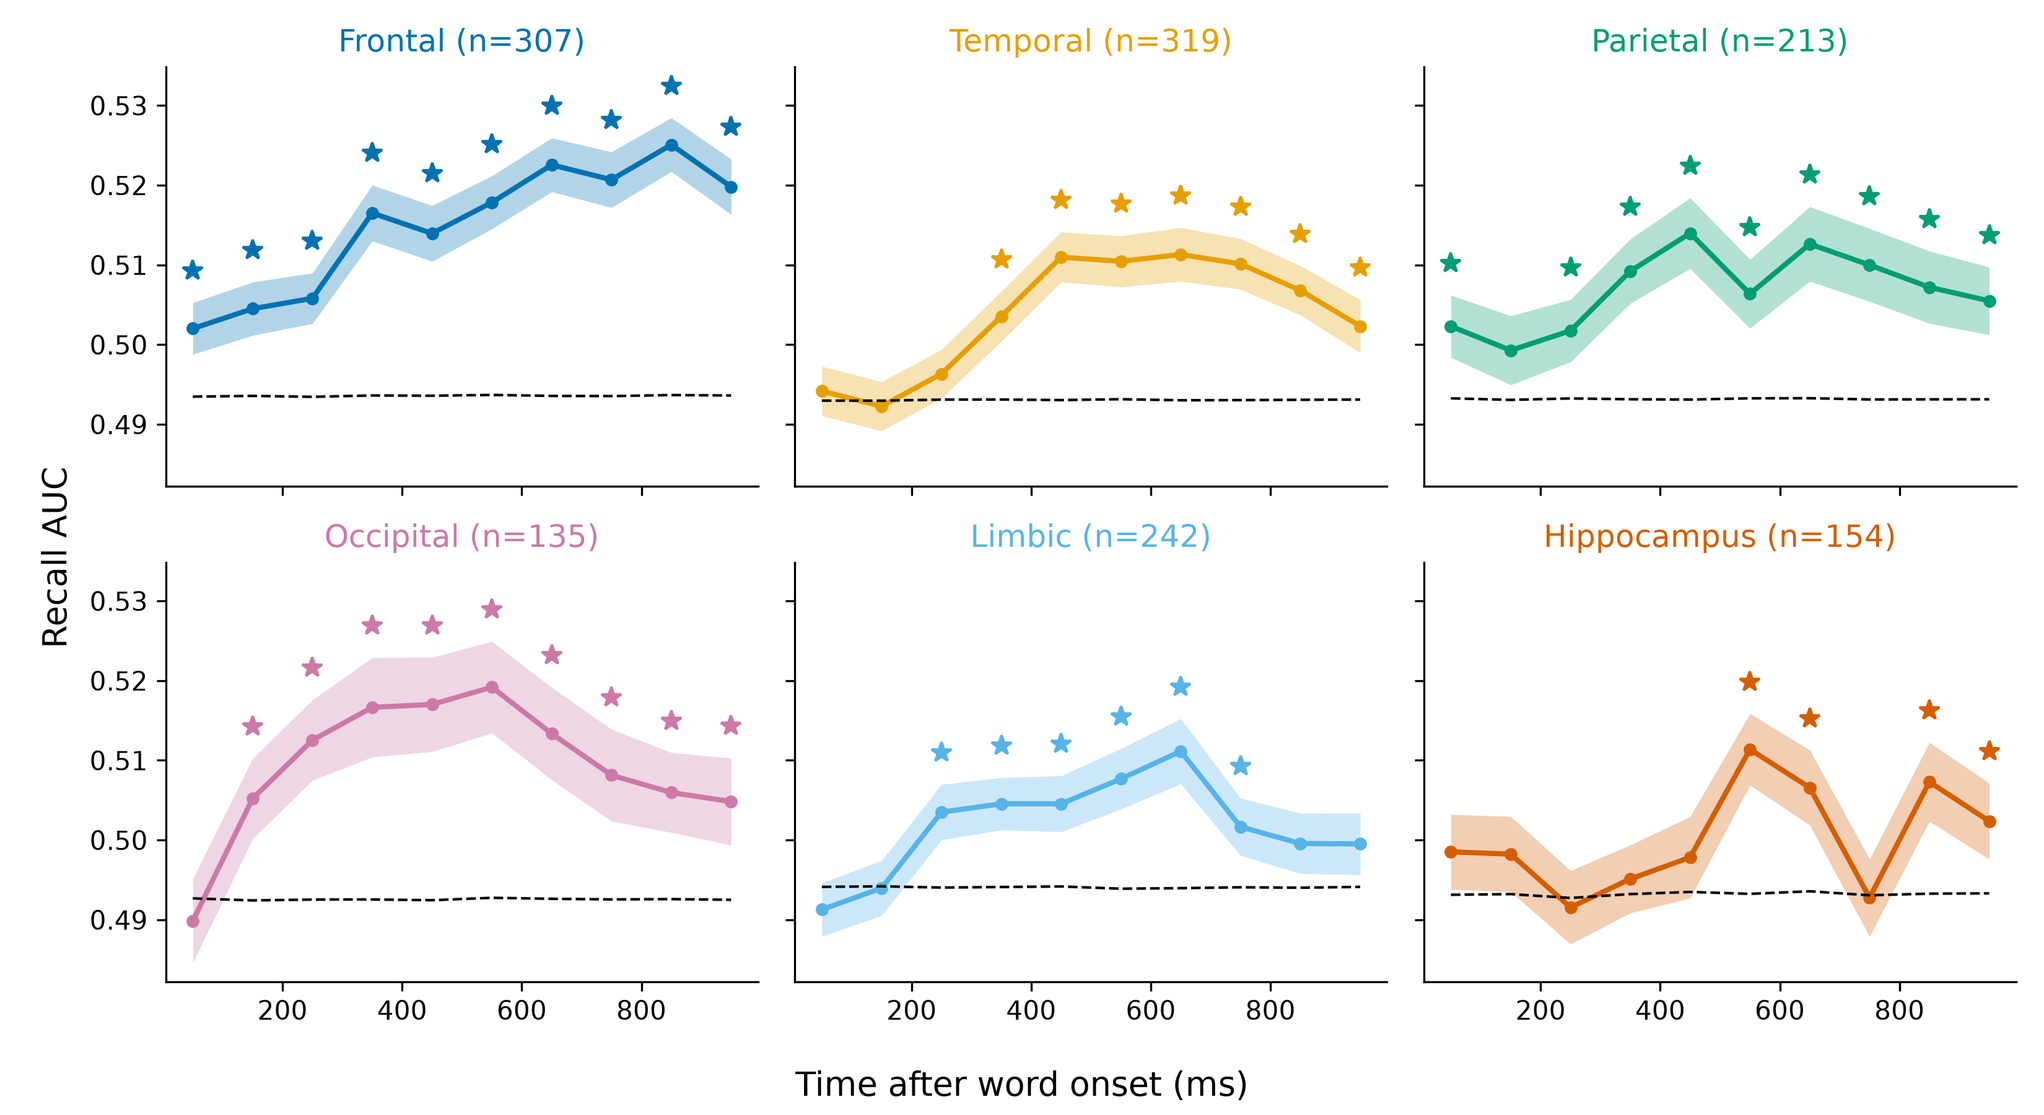
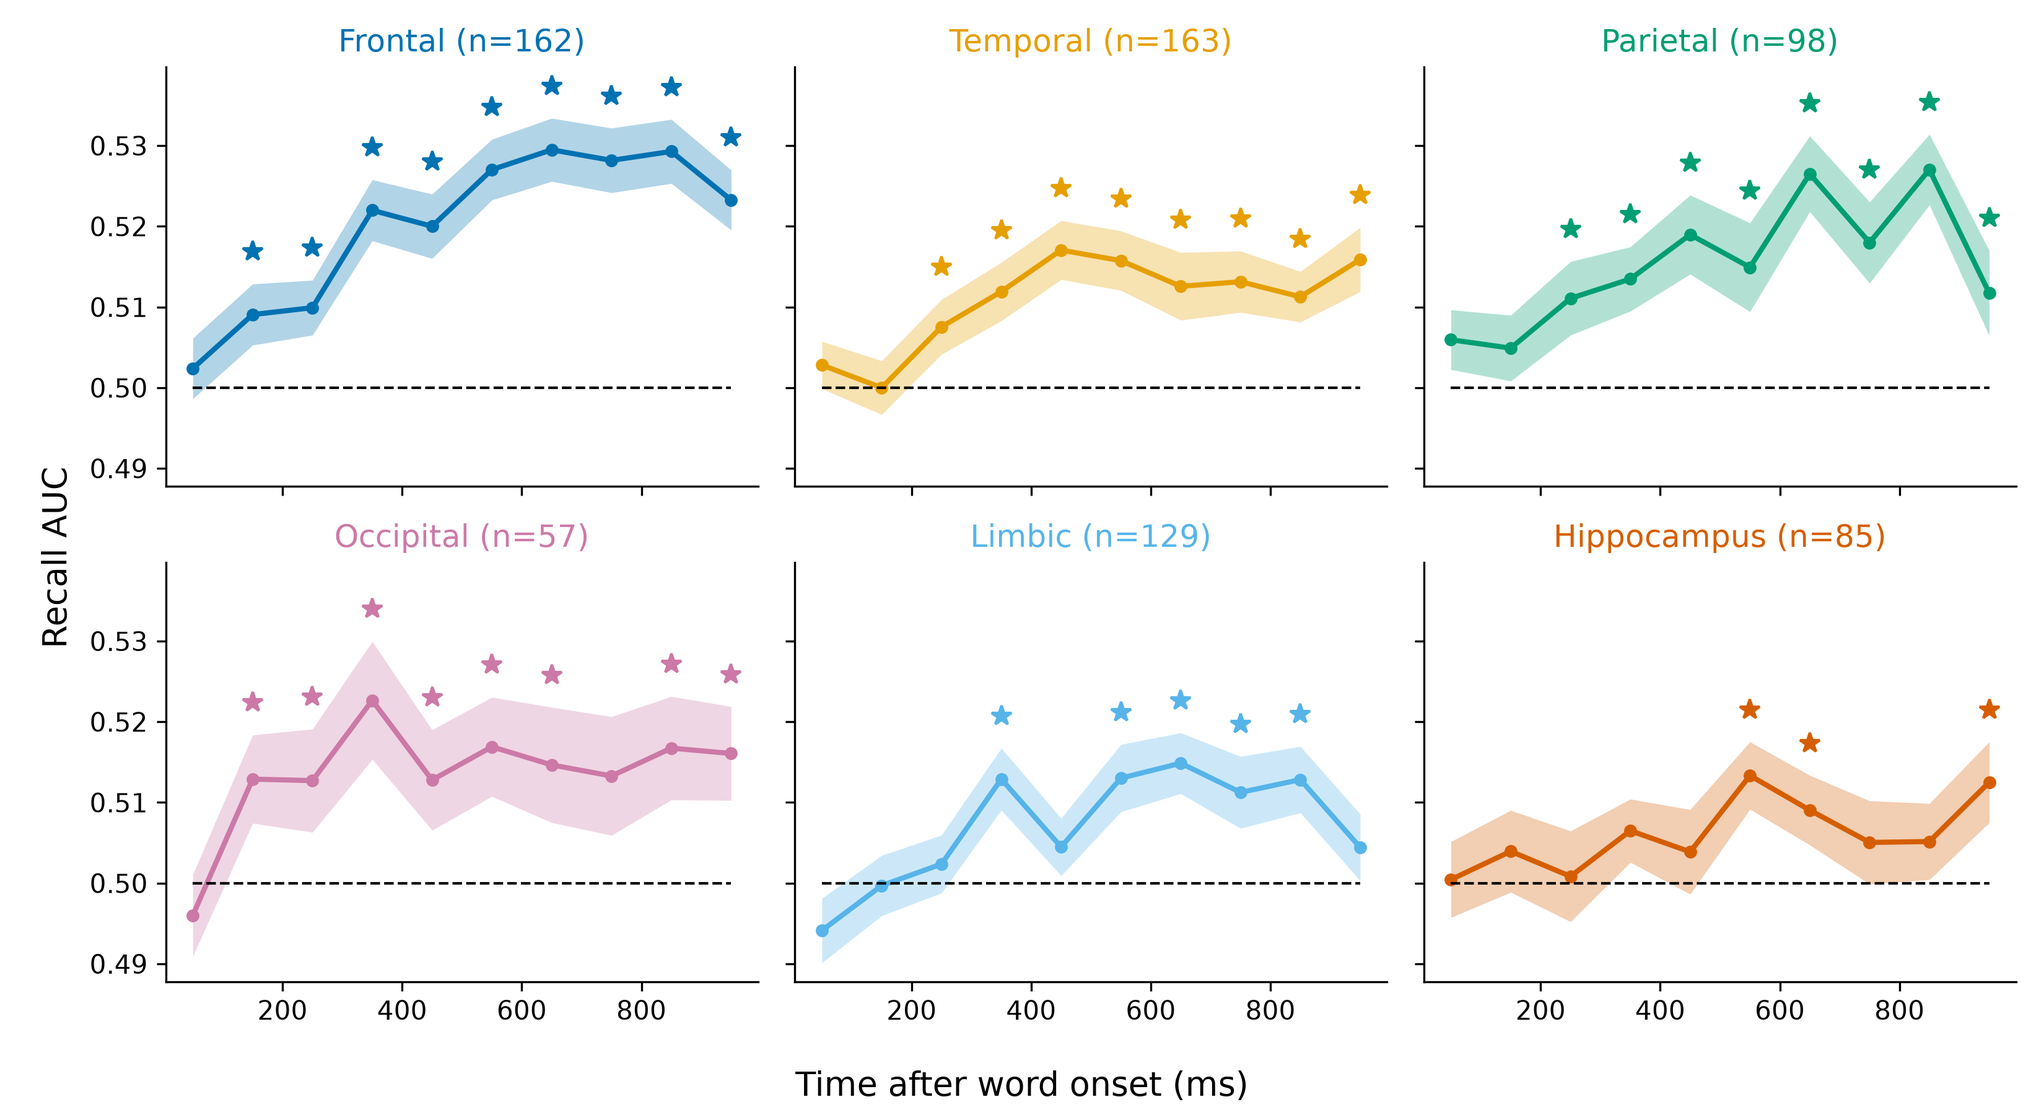
Decoder as DeHaan et al. 2025: per-session AUC vs 0.5, nested C, per montage; paper decoder text

diff --git a/plot_decoding.py b/plot_decoding.py
@@ -6,14 +6,13 @@ ram_utils, also train on retrieval events). Per trial and electrode: the high-ga
 response (plot_latency.response: envelope minus its word-off mean, smoothed) averaged in
 100 ms windows, 0-1000 ms; z-scored within session. Per subject (>= MIN_TRIALS recalled and
 forgotten words), Burke lobe (hemispheres pooled; >= MIN_ELECTRODES electrodes) and window:
-L2 logistic regression on the lobe's electrodes (C as ram_utils / Ezzyat et al. 2017; balanced class weights),
-leave-one-session-out (single-session subjects: leave-one-list-out); AUC of the pooled
-held-out predictions. Chance: N_PERM within-session label shuffles per subject (as ram_utils'
-permuted_loso_cross_validation), each cross-validated in full: the subject's chance level (their
-mean; ~0.49, since held-out AUC is biased below 0.5) and p = (1 + #perm AUC >= AUC) / (1 + N_PERM).
-All label sets are fit at once (fit_predict: the same L2 logistic regression, AUCs equal sklearn's).
-Across subjects: one-sided paired t of AUC > the subject's chance level, BH-FDR over lobe x window;
-stars q < .05; dashed: mean chance level.
+L2 logistic regression on the lobe's electrodes (balanced class weights), as DeHaan et al. 2025:
+leave-one-session-out (>= MIN_SESSIONS sessions per montage), C chosen per held-out session by an inner
+leave-one-session-out over CS (best mean inner AUC), refit on the training sessions; AUC within
+each held-out session, averaged per montage, montages averaged per subject (a montage = one
+electrode set; a changed set would zero-fill the missing electrodes). Within one session the AUC is unbiased (chance 0.5); the
+pooled held-out AUC is not (fold intercepts track the training recall rate: chance ~0.49).
+Across subjects: one-sided t of AUC > 0.5, BH-FDR over lobe x window; stars q < .05; dashed: 0.5.
 -> figures/decoding/recall_auc_time_word_on.png (+ _per_subject.csv, _stats.csv)
 
     python plot_decoding.py [--from-csv] [--simulation-tag TAG]
@@ -28,7 +27,7 @@ from joblib import Parallel, delayed
 import matplotlib.pyplot as plt
 import numpy as np
 import pandas as pd
-from scipy.linalg import cho_factor, cho_solve
+from scipy.linalg import solve
 from scipy import special
 from scipy.stats import rankdata, ttest_1samp
 from sklearn.model_selection import LeaveOneGroupOut
@@ -44,8 +43,9 @@ WIN_MS = 100
 WINDOWS = range(0, 1000, WIN_MS)
 MIN_TRIALS = 10
 MIN_ELECTRODES = 5   # per subject and lobe: features per classifier
-C = 7.2e-4   # L2 strength of the lab's encoding classifiers
-N_PERM = int(os.environ.get("DECODER_N_PERM", 2000))  # per subject: per-subject p and chance level
+CS = np.logspace(-6, 11, 52)   # L2 strengths searched (DeHaan et al. 2025)
+MIN_SESSIONS = 3   # as DeHaan et al. 2025
+CHANCE = 0.5
 
 
 def session_features(p: dict, lobe_of: dict) -> pd.DataFrame:
@@ -63,60 +63,79 @@ def session_features(p: dict, lobe_of: dict) -> pd.DataFrame:
     return f
 
 
-def fit_predict(Xtr: np.ndarray, Ytr: np.ndarray, Xte: np.ndarray, tol: float = 1e-9) -> np.ndarray:
-    """P(recalled) on Xte from sklearn's LogisticRegression(C, class_weight="balanced") fit to each
-    column of Ytr (label sets) at once: Newton steps with a fixed Hessian bound (monotone, exact optimum)."""
-    n = len(Xtr); n1 = Ytr.sum(0); S = np.where(Ytr, n / (2 * n1), n / (2 * (n - n1)))
-    X1, T1 = np.c_[Xtr, np.ones(n)], np.c_[Xte, np.ones(len(Xte))]
-    r = np.r_[np.full(Xtr.shape[1], 1 / C), 0.0]   # L2 on the weights, not the intercept
-    L = cho_factor(X1.T @ X1 * S.max() / 4 + np.diag(r))
-    th = np.zeros((X1.shape[1], Ytr.shape[1]))
-    for _ in range(5000):
-        step = cho_solve(L, X1.T @ (S * (special.expit(X1 @ th) - Ytr)) + r[:, None] * th)
-        th -= step
-        if np.abs(step).max() < tol:
+def fit_path(X: np.ndarray, y: np.ndarray, tol: float = 1e-8) -> np.ndarray:
+    """(features + intercept, len(CS)) weights of sklearn's LogisticRegression(C, class_weight="balanced")
+    for each C in CS: damped Newton, warm-started along the path (strong -> weak penalty)."""
+    n, n1 = len(y), y.sum(); S = np.where(y, n / (2 * n1), n / (2 * (n - n1)))
+    X1 = np.c_[X, np.ones(n)]
+    def loss(th, r):
+        z = X1 @ th
+        return (S * (np.logaddexp(0, z) - y * z)).sum() + 0.5 * (r * th ** 2).sum()
+    th, out = np.zeros(X1.shape[1]), []
+    for c in CS:
+        r = np.r_[np.full(X.shape[1], 1 / c), 0.0]   # L2 on the weights, not the intercept
+        for it in range(100):
+            q = special.expit(X1 @ th)
+            step = solve((X1.T * (S * q * (1 - q))) @ X1 + np.diag(r), X1.T @ (S * (q - y)) + r * th, assume_a="pos")
+            f0, k = loss(th, r), 1.0
+            while loss(th - k * step, r) > f0 and k > 1e-4:   # halve the step if the loss rises
+                k /= 2
+            th = th - k * step
+            if np.abs(k * step).max() < tol:
+                break
+        out.append(th)
+        if it == 0:   # unchanged from the previous C: the penalty no longer matters, nor will it
             break
-    return special.expit(T1 @ th)
+    return np.column_stack(out + [th] * (len(CS) - len(out)))
 
 
-def auc(d: pd.DataFrame, cols: list[str], Y: np.ndarray, groups) -> np.ndarray:
-    """Pooled held-out AUC of each label set (column of Y)."""
-    X = d[cols].fillna(0).to_numpy()
-    prob = np.empty(Y.shape)
-    for tr, te in LeaveOneGroupOut().split(X, groups=groups):
-        prob[te] = fit_predict(X[tr], Y[tr], X[te])
-    rk, n1 = rankdata(prob, axis=0), Y.sum(0)
-    return ((rk * Y).sum(0) - n1 * (n1 + 1) / 2) / (n1 * (len(Y) - n1))
+def session_auc(score: np.ndarray, y: np.ndarray) -> np.ndarray:
+    """AUC of each column of score (one held-out session)."""
+    rk, n1 = rankdata(score, axis=0), y.sum()
+    return ((rk * y[:, None]).sum(0) - n1 * (n1 + 1) / 2) / (n1 * (len(y) - n1))
+
+
+def loso(X: np.ndarray, y: np.ndarray, sess: np.ndarray) -> list:
+    """[(test index, (n test, len(CS)) scores)] per held-out session with both classes."""
+    out = []
+    for tr, te in LeaveOneGroupOut().split(X, groups=sess):
+        if 0 < y[te].sum() < len(te) and 0 < y[tr].sum() < len(tr):
+            out.append((te, np.c_[X[te], np.ones(len(te))] @ fit_path(X[tr], y[tr])))
+    return out
+
+
+def auc(d: pd.DataFrame, cols: list[str], y: np.ndarray, sess: np.ndarray) -> float:
+    """Nested leave-one-session-out AUC: per held-out session, C maximising the mean inner
+    held-out-session AUC, scores from the refit on all training sessions; mean over sessions."""
+    X, out = d[cols].fillna(0).to_numpy(), []
+    for te, score in loso(X, y, sess):
+        tr = np.setdiff1d(np.arange(len(y)), te)
+        inner = [session_auc(s, y[tr][i]) for i, s in loso(X[tr], y[tr], sess[tr])]
+        out.append(session_auc(score[:, [np.argmax(np.mean(inner, 0))]], y[te])[0])
+    return float(np.mean(out))
 
 
 def decode_subject(sub: str, fs: list) -> list:
-    """Per lobe x window AUCs (and their permutation means) for one subject."""
-    d = pd.concat(fs, ignore_index=True).dropna(subset=["recalled"])
-    y = d["recalled"].to_numpy(int)
-    if min(y.sum(), len(y) - y.sum()) < MIN_TRIALS:
-        return []
-    sess = d["session"].to_numpy()
-    if len(set(sess)) > 1:
-        groups = sess
-    else:
-        groups = d["list"] if d["list"].notna().all() else np.arange(len(d)) * 5 // len(d)
-    rng = np.random.default_rng(0)
-    perms = []
-    for _ in range(N_PERM):   # shuffle labels within each session
-        i = np.arange(len(d))
-        for s in set(sess):
-            i[sess == s] = rng.permutation(i[sess == s])
-        perms.append(i)
-    Y = np.column_stack([y] + [y[i] for i in perms])   # true labels + permutations
+    """Per lobe x window AUCs for one subject (mean over montages)."""
+    mont: dict[frozenset, list] = {}
+    for f in fs:
+        mont.setdefault(frozenset(f.columns), []).append(f)
     tres = []
-    for lobe in fc.LOBES:
-        for a in WINDOWS:
-            cols = [c for c in d.columns if c.startswith(f"{lobe}|") and c.endswith(f"|{a}")]
-            if len(cols) >= MIN_ELECTRODES:
-                r = auc(d, cols, Y, groups)
-                tres.append({"sub": sub, "lobe": lobe, "window_ms": a, "n_electrodes": len(cols), "auc": r[0],
-                             "null": r[1:].mean(), "p": (1 + (r[1:] >= r[0]).sum()) / (1 + N_PERM)})
-    return tres
+    for m in mont.values():
+        d = pd.concat(m, ignore_index=True).dropna(subset=["recalled"])
+        y = d["recalled"].to_numpy(int)
+        sess = d["session"].to_numpy()
+        if min(y.sum(), len(y) - y.sum()) < MIN_TRIALS or len(set(sess)) < MIN_SESSIONS:
+            continue
+        for lobe in fc.LOBES:
+            for a in WINDOWS:
+                cols = [c for c in d.columns if c.startswith(f"{lobe}|") and c.endswith(f"|{a}")]
+                if len(cols) >= MIN_ELECTRODES:
+                    tres.append({"sub": sub, "lobe": lobe, "window_ms": a, "n_electrodes": len(cols),
+                                 "auc": auc(d, cols, y, sess)})
+    if not tres:
+        return []
+    return pd.DataFrame(tres).groupby(["sub", "lobe", "window_ms"], as_index=False).mean().to_dict("records")
 
 
 def main() -> None:
@@ -139,9 +158,9 @@ def main() -> None:
         tres.to_csv(fc.table_path(f"{stem}_per_subject.csv"), index=False)
 
     g = tres.groupby(["lobe", "window_ms"])
-    st = g["auc"].agg(["mean", "sem", "size"]).join(g["null"].mean()).join(
-        g["p"].apply(lambda p: (p < 0.05).mean()).rename("frac_subjects_p05")).reset_index()
-    st["p"] = [ttest_1samp(x["auc"] - x["null"], 0, alternative="greater").pvalue for _, x in g]
+    st = g["auc"].agg(["mean", "sem", "size"]).reset_index()
+    st["null"] = CHANCE   # kept for plot_sim_summary.py
+    st["p"] = [ttest_1samp(x["auc"], CHANCE, alternative="greater").pvalue for _, x in g]
     st["q"] = multipletests(st["p"], method="fdr_bh")[1]
     st.to_csv(fc.table_path(f"{stem}_stats.csv"), index=False)
     fig, axes = plt.subplots(2, 3, figsize=(11, 6), sharex=True, sharey=True)
@@ -161,9 +180,8 @@ def main() -> None:
     fig.savefig(f"{stem}.png", dpi=300)
     fig.savefig(f"{stem}.pdf")
     plt.close(fig)
-    print(f"[decoding] mean permutation chance level {st['null'].mean():.3f}; "
-          f"{int((st['q'] < 0.05).sum())} of {len(st)} lobe x window cells AUC > chance at q < .05; "
-          f"subjects p < .05 per cell: median {st['frac_subjects_p05'].median():.1%}")
+    print(f"[decoding] {tres['sub'].nunique()} subjects; "
+          f"{int((st['q'] < 0.05).sum())} of {len(st)} lobe x window cells AUC > 0.5 at q < .05")
     print(f"[saved] {stem}.png")
 
 

diff --git a/paper/draft.tex b/paper/draft.tex
@@ -75,9 +75,10 @@ in 362 neurosurgical patients performing delayed free recall. Occipital regions 
 decreased alpha (8--13 Hz) and increased high-gamma (70--150 Hz) power; limbic regions and the hippocampus showed
 a weaker version of this pattern. Frontal regions instead showed an alpha increase, suggesting suppression.
 Among high-gamma-responsive electrodes, latencies increased from lateral occipital cortex (${\sim}$120 ms) through
-temporal and parietal regions to orbitofrontal cortex (${\sim}$320 ms). The occipital response was larger after
+temporal and parietal regions to orbitofrontal cortex (${\sim}$320 ms). Occipital regions also exhibited early alpha
+synchronization with the rest of the brain. The occipital response was larger after
 longer blank intervals, consistent with temporal expectation. High-gamma activity weakly predicted later recall
-in every lobe (AUC $\leq$ 0.53), most persistently in frontal cortex. Within subjects, power changes were reliable
+in every lobe (AUC $\leq$ 0.53), most persistently in the frontal lobe. Within subjects, power changes were reliable
 across sessions (median $r$ = 0.67 alpha, 0.81 high gamma), whereas changes in inter-regional synchrony were much
 less reliable (0.19, 0.14); across subjects, only the occipital network replicated strongly (median $r$ = 0.90).
 The response to a word thus moves from reliably strong early visual engagement to weaker, later frontal activity
@@ -223,7 +224,7 @@ and all 15 pairwise lobe contrasts were Holm-corrected.
 To test whether the response depends on how long subjects waited for the word, we used the same responsive electrodes as in the latency analysis and split each session's word events at its median blank length. For each electrode, we expressed the high-gamma response, averaged over word events, after long and after short blanks relative to the same baseline, the electrode's word-off mean over all events. A difference between groups therefore cannot come from a difference in their baselines. The effect was the peak response (0--800 ms) after long blanks minus the peak after short blanks. We averaged effects per subject and region and tested them against zero with one-sample $t$ tests, Benjamini-Hochberg corrected across regions.
 
 \subsection*{Recall prediction}\label{recall-prediction}
-To test when and where the word-onset response predicts later recall (encoding contrast: recalled vs.\ not recalled words), we averaged the high-gamma response (computed as for latency) in 100 ms windows from 0--1000 ms and z-scored it within each session. For every subject, lobe (at least 5 electrodes) and window, we trained an L2-regularized logistic regression with the penalty used by \citet[$C = 7.2\times10^{-4}$;][]{Ezzyat_2017} and balanced class weights. Models were cross-validated by leaving out one session at a time, or one list at a time for subjects with a single session. Performance was the area under the ROC curve (AUC) of the pooled held-out predictions. Because cross-validated AUC is biased below 0.5 \citep{Jamalabadi_2016}, each subject's chance level was estimated from 2000 within-session permutations of the recall labels (mean 0.493). Across subjects, we tested AUC above each subject's chance level with one-sided paired $t$ tests, Benjamini-Hochberg corrected over lobes $\times$ windows.
+To test when and where the word-onset response predicts later recall (encoding contrast: recalled vs.\ not recalled words), we averaged the high-gamma response (computed as for latency) in 100 ms windows from 0--1000 ms and z-scored it within each session. For every subject, lobe (at least 5 electrodes) and window, we trained an L2-regularized logistic regression with balanced class weights. Following \citet{DeHaan_2025}, models were cross-validated by leaving out one session at a time in subjects with at least three sessions per electrode montage. For each held-out session, the penalty was chosen from 52 values ($C = 10^{-6}$ to $10^{11}$) by an inner leave-one-session-out cross-validation on the remaining sessions, and the model was refit on all of them. Performance was the area under the ROC curve (AUC) within each held-out session, averaged per montage and then per subject. Computing AUC within a session avoids the below-chance bias of AUC on pooled held-out predictions \citep{Jamalabadi_2016}, so chance is 0.5. Across subjects, we tested AUC above 0.5 with one-sided $t$ tests, Benjamini-Hochberg corrected over lobes $\times$ windows.
 
 \subsection*{Reliability}\label{reliability}
 To estimate test-retest reliability, we randomly divided each subject's sessions into two halves of at least two sessions each. Within each half, we averaged Cohen's $d$ (power) or hub strength (each electrode's mean change in synchrony over all its connections, as in Fig.~5A) per anatomical region. Reliability was the Pearson correlation between the two halves across that subject's regions. For each measure we report the median and interquartile range across subjects. To ask which lobes' network results replicate across subjects (replicability, as opposed to the within-subject reliability above), we pooled hemispheres and took each lobe's profile: its change in synchrony on each connection to the six lobes (itself included) in each of the nine epochs of the time-resolved network. We split the subjects 1000 times into two disjoint random halves of 127 subjects each, the same size for every lobe, and correlated the two halves' mean profiles (Pearson $r$; estimate: the median over splits). The spread is the central 95\% of $r$ across splits.
@@ -297,11 +298,11 @@ contrast)}\label{recall-prediction-over-the-response-encoding-contrast}
 \begin{figure*}[!tp]
 \centering
 \includegraphics[width=1\linewidth]{img/fig7_recall_time.png}
-\caption{Recall prediction from the high-gamma response (encoding contrast: recalled vs.\ not recalled). AUC per lobe and 100 ms window, mean $\pm$ SEM across subjects; dashed line: permutation chance level; stars: AUC above chance, BH-FDR over lobe $\times$ window.}
+\caption{Recall prediction from the high-gamma response (encoding contrast: recalled vs.\ not recalled). AUC per lobe and 100 ms window, mean $\pm$ SEM across subjects; dashed line: chance (0.5); stars: AUC above chance, BH-FDR over lobe $\times$ window.}
 \label{fig:recall}
 \end{figure*}
 
-Frontal cortex predicted recall in every window from 0 to 1000 ms (Figure~\ref{fig:recall}; peak AUC 0.525 at 800--900 ms, chance 0.494). Frontal and parietal cortex already did so at 0--100 ms, before the high-gamma response begins (${\sim}$120 ms), which suggests a contribution from the subject's state before the word. Occipital cortex predicted recall from 100 ms on (peak 0.519 at 500--600 ms), parietal cortex from 200 ms (peak 0.514 at 400--500 ms), limbic cortex at 200--800 ms and temporal cortex from 300 ms (both peaking at 0.511 at 600--700 ms), and hippocampus at 500--700 and 800--1000 ms (peak 0.511 at 500--600 ms). AUCs were low ($\leq$ 0.525) because each classifier used one lobe's high gamma in one 100 ms window. This early-posterior, late-frontal order matches the subsequent memory effect in high-frequency activity \citep{Burke_2014a}.
+Frontal cortex predicted recall in every window from 100 to 1000 ms (Figure~\ref{fig:recall}; peak AUC 0.529 at 600--700 ms) and occipital cortex in all but one (100--700 and 800--1000 ms; peak 0.523 at 300--400 ms). Parietal cortex predicted recall from 200 ms (peak 0.527 at 800--900 ms), temporal cortex from 200 ms (peak 0.517 at 400--500 ms), limbic cortex at 300--400 and 500--900 ms (peak 0.515 at 600--700 ms), and hippocampus at 500--700 and 900--1000 ms (peak 0.513 at 500--600 ms). No lobe predicted recall at 0--100 ms, before the high-gamma response begins (${\sim}$120 ms). AUCs were low ($\leq$ 0.53) because each classifier used one lobe's high gamma in one 100 ms window. This early-posterior, late-frontal order matches the subsequent memory effect in high-frequency activity \citep{Burke_2014a}.
 
 \subsection*{6. Reliability across
 sessions}\label{reliability-across-sessions}

diff --git a/CHANGELOG.md b/CHANGELOG.md
@@ -7,6 +7,13 @@ earlier than the last entry below is undocumented.
 
 ---
 
+## 2026-11-03 — decoder: per-session AUC (DeHaan et al. 2025)
+
+- `plot_decoding.py`: AUC within each held-out session, averaged per subject; subjects with >= 3 sessions; one-sided t vs 0.5. Replaces the pooled held-out AUC, whose chance level was ~0.493 (fold intercepts track the training recall rate), and its per-subject permutations (`DECODER_N_PERM` gone). Rerun on the real data and strong / hg_null / sync_equal.
+- Then, as DeHaan et al. 2025: C chosen per held-out session by nested leave-one-session-out over 52 values (1e-6 to 1e11; was fixed 7.2e-4), refit on the training sessions (`fit_path`: damped Newton along the C path, matches sklearn to 1e-7); montages (electrode sets) decoded separately and averaged (4 subjects changed electrodes across sessions; missing electrodes had been zero-filled).
+- Connectivity recovery sweeps (rec_ciplv, rec_aec_c; 8 tags) rerun on 10 random subjects with >= 5 frontal electrodes (seed 0; Riley: can a planted non-null level be measured?). Stale pre-fix sweep caches moved to `sim/_stale_2026-11-03/`. Then 4 levels each (ciPLV 0.01/0.25/0.5/0.75, AEC-c depth 0/0.5/1/2; briefly 3) on 30 random frontal subjects (the 10 + 20, seed 1); stale rec_power caches moved there too. `figures/simulations/recovery.png` force-added to git so it can be viewed remotely.
+- Abstract: the user's latest version (early occipital alpha synchronization; "frontal lobe"; "r up to 0.90"). Decoder methods and Figure caption updated; results text pending the rerun.
+
 ## 2026-11-03 — simulations plotted from 300 subjects
 
 - The full-cohort simulation run (3 tags) was taking ~35 min per 10-subject batch, mostly downloading; it was stopped after 30 of 44 batches (300 subjects cached; resumable from `stream_done.txt`).
